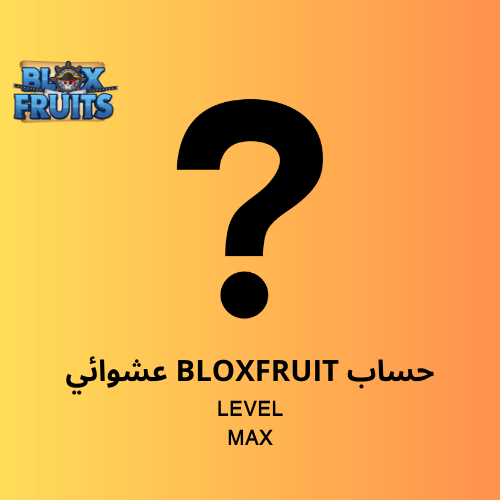
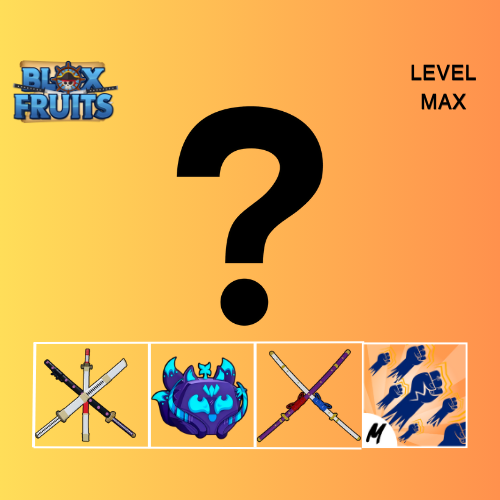
Add files via upload

diff --git a/index.html b/index.html
@@ -173,12 +173,14 @@
             });
         </script>
         
+        
     </header>
    <hr>
     
         
     </a>
 
+    
   
     <main>
         <section id="products" class="product-section">
@@ -188,9 +190,9 @@
                     متصفحك لا يدعم تشغيل الفيديو.
                 </video>
                 <h2>V4 تريل</h2>
-                <p>فل قير لريس واحد فقط انت تحدده V4 تريل</p>
+                <p>نسوي لحسابك تريل ڤي 4  فل قير لريس واحد انت تحدده</p>
                 <h6>ريس التنين غير متوفر</h6>
-                <p class="price">السعر: 42 ريال سعودي</p>
+                <p class="price">السعر: 49 ريال سعودي</p>
                 <!-- تعديل زر إضافة إلى السلة ليوجه المستخدم إلى صفحة الدفع -->
 <button class="add-to-cart" onclick="goToCheckout('V4 تريل - #00271')">إضافة إلى السلة</button>
 
@@ -204,7 +206,7 @@
 </video>
 
                 <h2>إيقاض فاكهة</h2>
-                <p>إيقاض أي فاكة تحددها انت رايد كامل   </p>
+                <p> نسوي لحسابك إيقاض لأي فاكة تحددها انت رايد كامل   </p>
                 <p class="price">السعر: 30 ريال سعودي</p>
                <!-- تعديل زر إضافة إلى السلة ليوجه المستخدم إلى صفحة الدفع -->
 <button class="add-to-cart" onclick="goToCheckout('إيقاض فاكهة - #00272')">إضافة إلى السلة</button>
@@ -231,16 +233,29 @@
 <button class="add-to-cart" onclick="goToCheckout('سيوف ياماتو - #00274')">إضافة إلى السلة</button>
                 <p>رقم المنتج #00274</p>
             </div>
-            <div class="product">
-                <img src="حساب عشوائي.png" alt=" سيف ياماتو" width="100%" height="auto">
-                <h2> حساب BLOXFRUIT</h2>
-                <p>حساب بلوكس فروت لفل ماكس غير مرتبط ب إيميل</p>
+       
+                <div class="product">
+                <img src="godhuman.png" alt="اسلوب" width="100%" height="auto">
+                <h2> القود هيومن</h2>
+                <p>نجيب لك في حسابك أسلوب القود هيومن</p>
+                <p class="price">السعر: 46 ريال سعودي</p>
+                <!-- تعديل زر إضافة إلى السلة ليوجه المستخدم إلى صفحة الدفع -->
+<button class="add-to-cart" onclick="goToCheckout('#00276')">إضافة إلى السلة</button>
+
+                <p>رقم المنتج #00276</p>
+            </div>
+                 <div class="product">
+                <img src="حساب عشوائي.png" alt=" حساب عشوائي" width="100%" height="auto">
+                <h2>BLOXFRUIT حساب </h2>
+                <p>حساب بلوكس فروت عشوائي لفل ماكس غير مرتبط ب إيميل</p>
                 <p class="price">السعر: 28 ريال سعودي</p>
                 <!-- تعديل زر إضافة إلى السلة ليوجه المستخدم إلى صفحة الدفع -->
 <button class="add-to-cart" onclick="goToCheckout('#00275')">إضافة إلى السلة</button>
 
                 <p>رقم المنتج #00275</p>
             </div>
+
+          
             <script>
 
                 // دالة تنقل المستخدم إلى صفحة الدفع مع رقم المنتج

diff --git a/pay.html b/pay.html
@@ -39,6 +39,7 @@
       <option value="odensword--35-SAR">سيوف اودن</option>
       <option value="FoxLamp--38-SAR">سيوف ياماتو</option>
       <option value="acaountbloxfruit--28-SAR"> حساب بلوكس فروت</option>
+      <option value="Godhuman--46-SAR">أسلوب القود هيومن</option>
     </select><br><br>
 
 
@@ -77,11 +78,12 @@
 
   function applyDiscount(reset = false) {
     const prices = {
-      "trail-v4--42-SAR": 42,
+      "trail-v4--42-SAR": 49,
       "awakenFruit--30-SAR": 30,
       "odensword--35-SAR": 35,
       "FoxLamp--38-SAR": 38,
-      "acaountbloxfruit--28-SAR": 28
+      "acaountbloxfruit--28-SAR": 28,
+      "Godhuman--46-SAR" : 46
     };
     const productSelect = document.getElementById('product');
     const productValue = productSelect.value;
@@ -138,11 +140,12 @@
     function updatePrice() {
       const product = document.getElementById('product').value;
       const prices = {
-        "trail-v4--42-SAR": 42,
+        "trail-v4--42-SAR": 49,
         "awakenFruit--30-SAR": 30,
         "odensword--35-SAR": 35,
         "FoxLamp--38-SAR": 38,
-        "acaountbloxfruit--28-SAR": 28
+        "acaountbloxfruit--28-SAR": 28,
+        "Godhuman--46-SAR" : 46
       };
       currentPrice = prices[product] || 0;
       document.getElementById('product-price').innerText = currentPrice + " ر.س";
